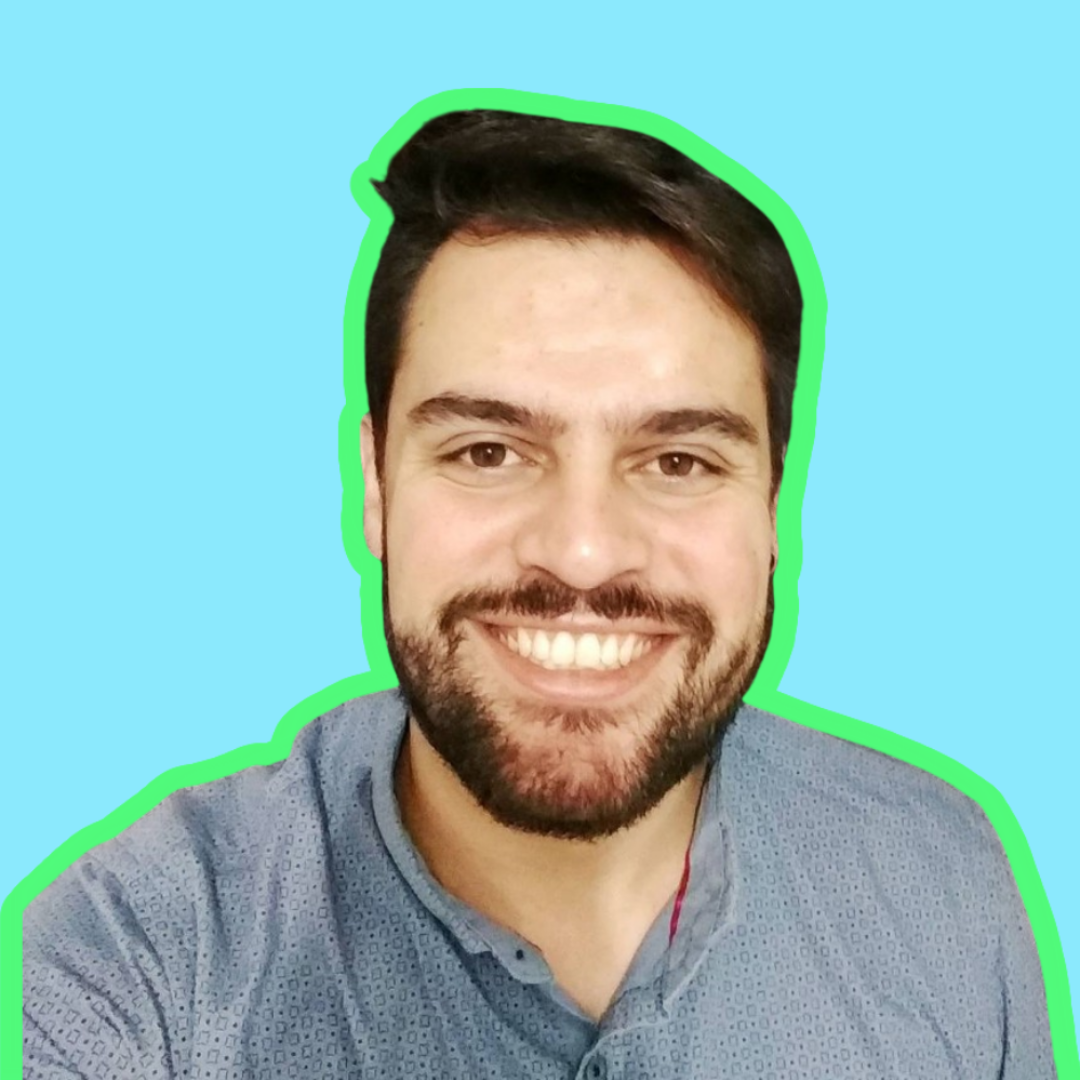
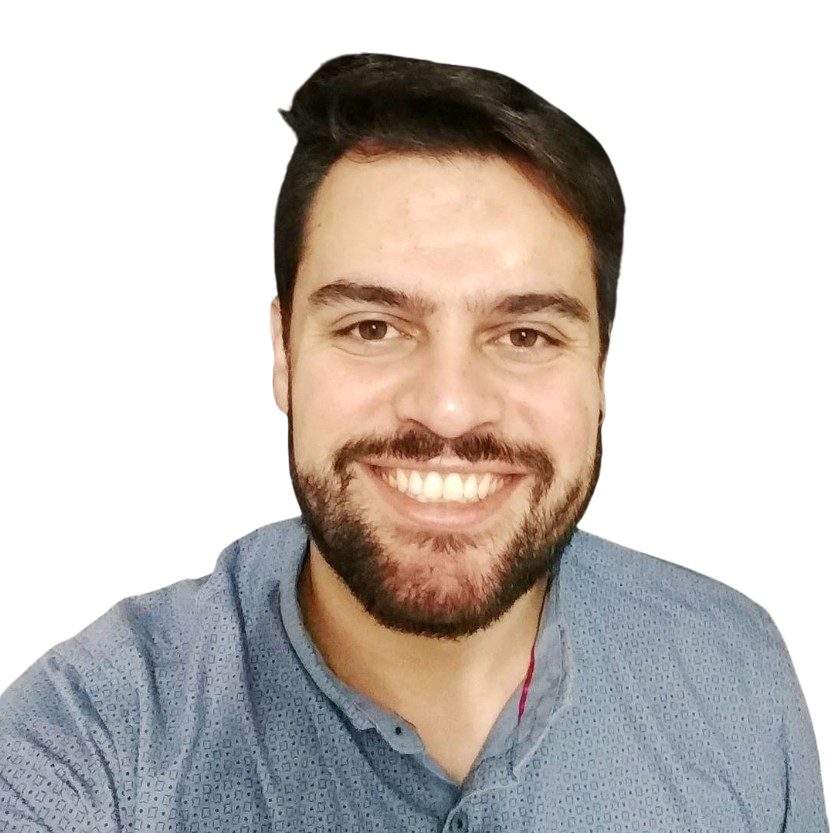
Animation bugs fixed and minor design changes

diff --git a/index.html b/index.html
@@ -15,7 +15,7 @@
     <script src="https://cdnjs.cloudflare.com/ajax/libs/jquery/3.6.3/jquery.min.js" integrity="sha512-STof4xm1wgkfm7heWqFJVn58Hm3EtS31XFaagaa8VMReCXAkQnJZ+jEy8PCC/iT18dFy95WcExNHFTqLyp72eQ==" crossorigin="anonymous" referrerpolicy="no-referrer"></script>
 
     <!-- CSS stylesheet -->
-    <link rel="stylesheet" href="./static/style.css">
+    <link rel="stylesheet" href="./static/styles.css">
 
     <!-- JavaScript file -->
     <script src="./main.js"></script>
@@ -92,6 +92,11 @@
                 <h1 style="--order: 10;" id="full-name" class="hidden-home-bot">Nícolas Brandão</h1>
                 <p style="--order: 11;" id="intro" class="hidden-home-bot">Sou um desenvolvedor front-end</p>
                 <p style="--order: 12;" id="bio" class="hidden-home-bot">Sou um <span class="high-text">profissional</span> que busca diariamente melhorar a habilidade em construir para a web. Meu objetivo atual é desenvolver minhas habilidades com <span class="high-text">React.js</span> e me tornar uma referência nessa tecnologia</p>
+                <div style="--order: 13;" class="hidden-home-bot">
+                    <div class="button-link">
+                        Download Currículo<img src="./static/assets/icons/misc/download.svg" alt="Notion" class="notion-external">
+                    </div>
+                </div>
             </div>
         </div>
         
@@ -113,7 +118,7 @@
                         <br>
                         <a href="https://frill-word-deb.notion.site/05e98f1767054c43a2cea6118e331bcb?v=a47a1074574940c7a0a7091ccdd706de" class="hidden" target="_blank">
                             <div class="button-link">
-                                Acesse meu Notion<img src="./static/assets/icons/misc/external-link.svg" alt="Notion" class="notion-external">
+                                Acesse meu LinkedIn<img src="./static/assets/icons/misc/external-link.svg" alt="Notion" class="notion-external">
                             </div>
                         </a>
                     </div>
@@ -182,6 +187,11 @@
                     </div>
                 </div>
                 <p class="hidden">Por enquanto, meu objetivo é consolidar o conhecimento nessas tecnologias. Mas em breve pretendo conhecer novos frameworks como <span class="high-text">Angular</span>, <span class="high-text">Svelte</span> e <span class="high-text">Next.js</span></p>
+                <a href="https://frill-word-deb.notion.site/05e98f1767054c43a2cea6118e331bcb?v=a47a1074574940c7a0a7091ccdd706de" class="hidden" target="_blank">
+                    <div class="button-link">
+                        Acesse meu Notion<img src="./static/assets/icons/misc/external-link.svg" alt="Notion" class="notion-external">
+                    </div>
+                </a>
             </div>
         </div>
 
@@ -284,10 +294,9 @@
                 </div>
             </div>
         </div>
-
-        <!-- style="--order: 13;" class="hidden-home-bot" -->
         
-            <div style="--order: 13;"  class="lateral-menu hidden-home-bot left">
+        <div class="lateral-menu left">
+            <div style="--order: 14;" class="hidden-home-bot lateral-menu-container">
                 <ul>
                     <li>
                         <a href="https://www.linkedin.com/in/nicolasbrandao/" target="_blank" rel="author"><img class="lateral-menu-icon" src="./static/assets/icons/social-media/linkedin.svg" alt="Linkedin"></a>
@@ -301,18 +310,16 @@
                 </ul>
                 <div class="lateral-menu-br"></div>
             </div>
+        </div>
         
-
-        <!-- style="--order: 14;" class="hidden-home-bot" -->
-        
-            <div style="--order: 14;" class="lateral-menu hidden-home-bot right">
+        <div class="lateral-menu right">
+            <div style="--order: 15;" class="hidden-home-bot lateral-menu-container">
                 <a class="lateral-menu-email" target="_blank" href="mailto: nicolas.brandaor@gmail.com" rel="author">
                     nicolas.brandaor@gmail.com
                 </a>
                 <div class="lateral-menu-br"></div>
             </div>
-        
-
+        </div>
     </main>
 
     <footer>

diff --git a/static/styles.css b/static/styles.css
@@ -29,6 +29,11 @@
     --foreground2: #301E67;
     --cyan: #5B8FB9;
     --green: #50fa7b;
+
+    /* filters */
+    --to-green: invert(84%) sepia(8%) saturate(2819%) hue-rotate(75deg) brightness(91%) contrast(118%);
+    --to-foreground: invert(6%) sepia(18%) saturate(7492%) hue-rotate(241deg) brightness(85%) contrast(114%);
+    --to-foreground2: invert(13%) sepia(31%) saturate(4074%) hue-rotate(239deg) brightness(96%) contrast(101%)
 }
 
 *, *:before, *:after {
@@ -198,7 +203,7 @@ p {
 
 .nav-brand {
     font-weight: bolder;
-    font-size: 1.2rem;
+    font-size: 2rem;
     cursor: pointer;
 }
 
@@ -206,14 +211,14 @@ p {
     content: '<';
     color: var(--green);
     font-family: var(--code-font);
-    font-size: 1.5rem;
+    font-size: 2.5rem;
 }
 
 .nav-brand::after {
     content: '/>';
     color: var(--green);
     font-family: var(--code-font);
-    font-size: 1.5rem;
+    font-size: 2.5rem;
 }
 
 .nav-menu-container {
@@ -412,7 +417,7 @@ p {
     justify-content: flex-end;
     overflow: hidden;
     transition-property: height, visibility;
-    transition-duration: 1s, 1s;
+    transition-duration: 0.5s, 0.5s;
 }
 
 .lateral-menu ul {
@@ -420,14 +425,18 @@ p {
 }
 
 .right {
-    bottom: 0;
     right: 1.5rem;
 }
 
 .left {
-    bottom: 0;
     margin-left: 1rem;
-} 
+}
+
+.lateral-menu-container {
+    display: flex;
+    flex-direction: column;
+    align-items: center;
+}
 
 .lateral-menu-icon {
     width: 2rem;
@@ -549,7 +558,10 @@ p {
 .profile-img {
     position: relative;
     width: 15rem;
-    border-radius: 0.2rem;
+    border-radius: 50%;
+    -webkit-box-shadow: inset -74px -77px 34px 14px rgba(80,250,123,1);
+    -moz-box-shadow: inset -74px -77px 34px 14px rgba(80,250,123,1);
+    box-shadow: inset -74px -77px 34px 14px rgba(80,250,123,1);
 }
 
 /* SKILLS */
@@ -657,14 +669,16 @@ p {
     gap: 1rem;
     align-self: center;
     margin-top: 20%;
-    border-radius: 0.2rem;
+    border-radius: 0.5rem;
     background-color: var(--background2);
     padding: 1rem;
     width: 100%;
+    aspect-ratio: 1.586;
+    max-width: 30rem;
     background-image: url('./assets/icons/favicon/android-chrome-512x512.png');
     background-repeat: no-repeat;
-    background-size: contain;
-    background-position: center right 2rem;
+    background-size: 200px 200px;
+    background-position: bottom right 2rem;
     box-shadow: 5px 5px 5px var(--dark-shadow);
 }
 
@@ -677,10 +691,15 @@ p {
     backdrop-filter: blur(3px);
 }
 
+.contact-backdrop a {
+    width: fit-content;
+}
+
 .contact-card {
     display: flex;
     align-items: center;
     gap: 1rem;
+    width: fit-content;
     transition-property: transform, color;
     transition-duration: 1s, 1s;
 }
@@ -694,6 +713,7 @@ p {
     margin-bottom: 1rem;
     font-family: var(--code-font);
     font-weight: bolder;
+    font-size: 2rem;
 }
 
 .contact-icon {
@@ -708,7 +728,7 @@ p {
 }
 
 .contact-title {
-    font-size: 0.9rem;
+    font-size: 1.2rem;
 }
 
 /* FOOTER */
@@ -830,5 +850,9 @@ footer {
     .project-card {
         position: static;
         width: 100%;
+    }
+
+    .contact-title {
+        font-size: 1rem;
     }
 }

diff --git a/main.js b/main.js
@@ -66,7 +66,7 @@ function removeNavbarShadow() {
 
 // Pre-loader animation
 function preLoaderAnimation() {
-    const preloaderTime = 2000;
+    const preloaderTime = 1500;
     $(window).on('load', function(){
         $('body').css('overflow', 'hidden');
         setTimeout(removeLoader, preloaderTime);
